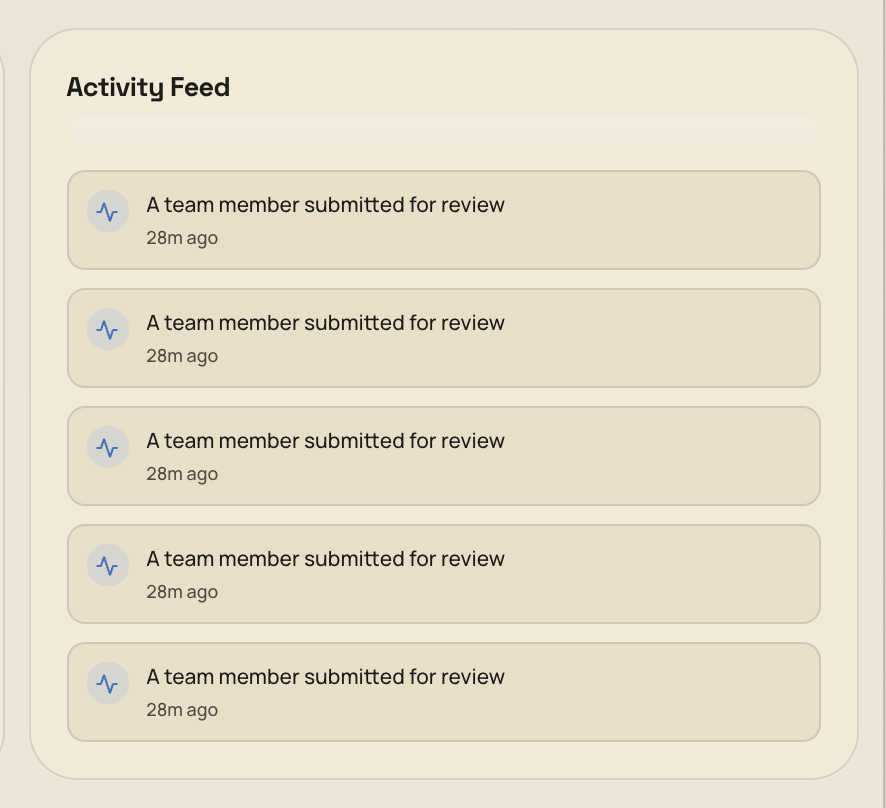
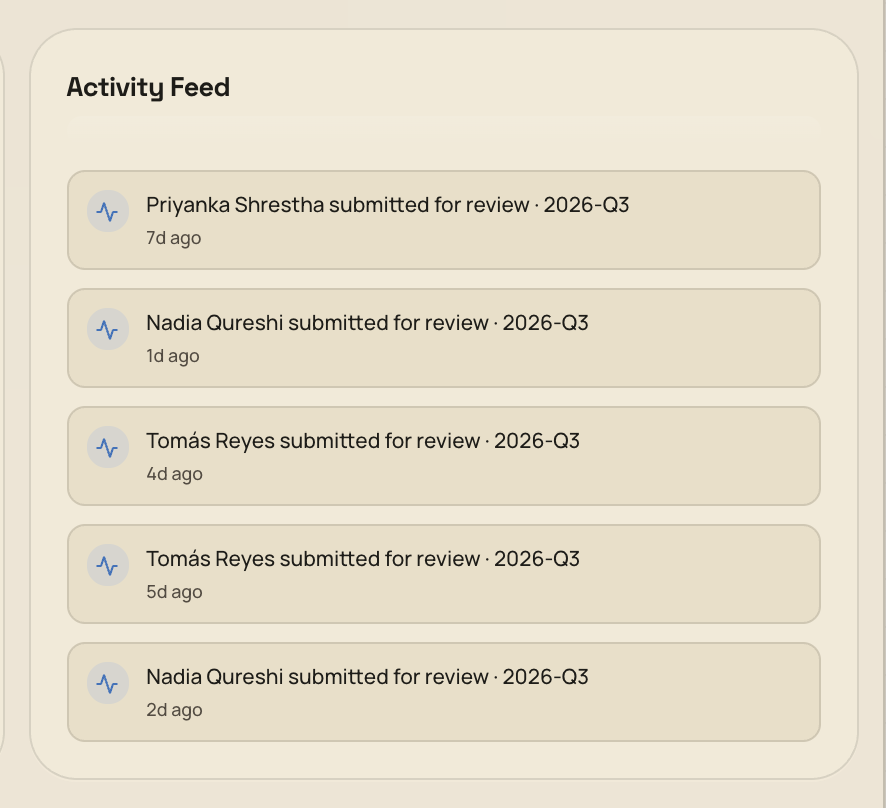
Reshoot the activity feed, admin dashboard and share figures after the 18 Sep fixes
The feed now names who submitted, and the share dialog no longer overflows.

diff --git a/user-manual/dashboard.md b/user-manual/dashboard.md
@@ -91,9 +91,9 @@ When there is nothing to do, each row says so plainly.
 
 ### Activity Feed
 
-The five most recent submissions, newest first, each reading as a sentence — *A team member submitted for review* — with how long ago it happened. The colour of the dot says which kind of event it was: a submission, an approval, or a figure returned for correction.
+The five most recent submissions, newest first, each reading as a sentence — *Farhana Akter submitted for review · 2026-Q3* — with how long ago it happened. The colour of the dot says which kind of event it was: a submission, an approval, or a figure returned for correction.
 
-Use it to see that the workspace is moving. To see *which* figure moved and who moved it, open **Submissions** or **Review**, where every row names the indicator, the period and the person.
+Use it to see that the workspace is moving and who is moving it. To see *which* figure changed, open **Submissions** or **Review**, where every row names the indicator as well.
 
 {{figure:dashboard-activity-feed}}
 
